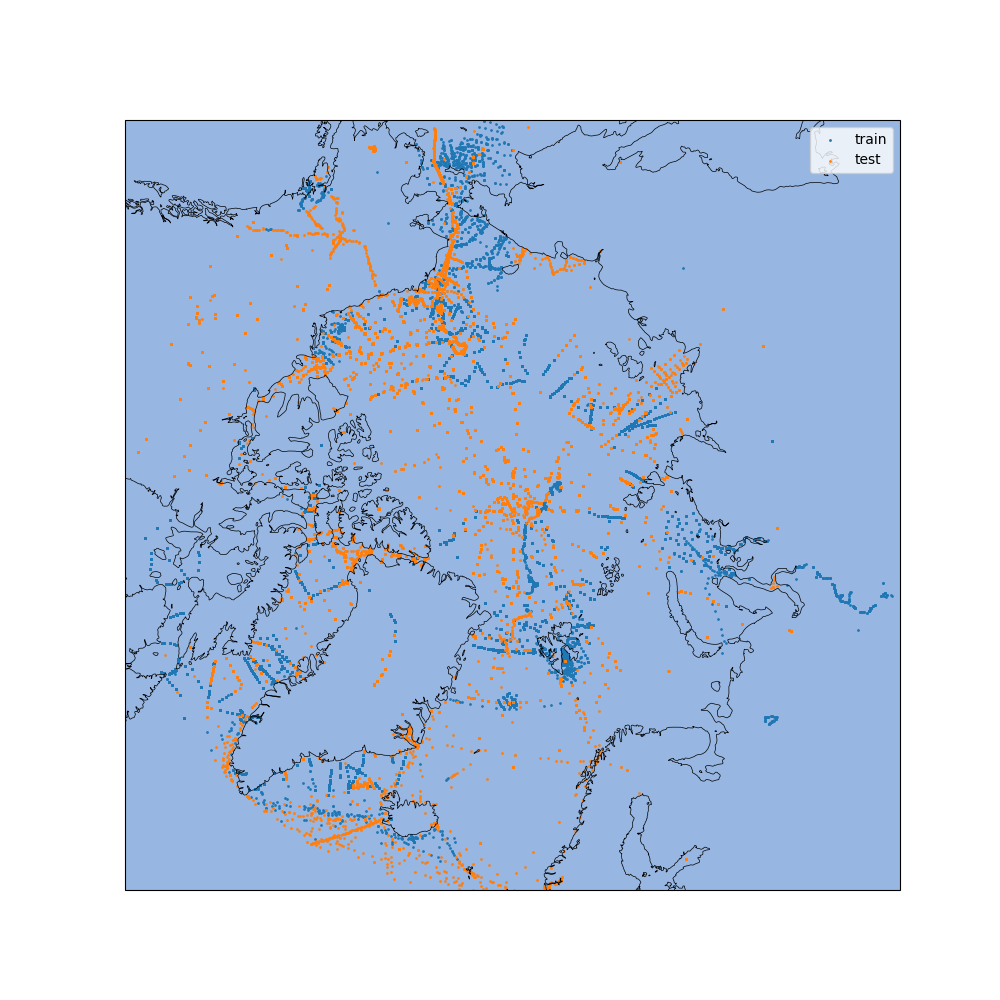
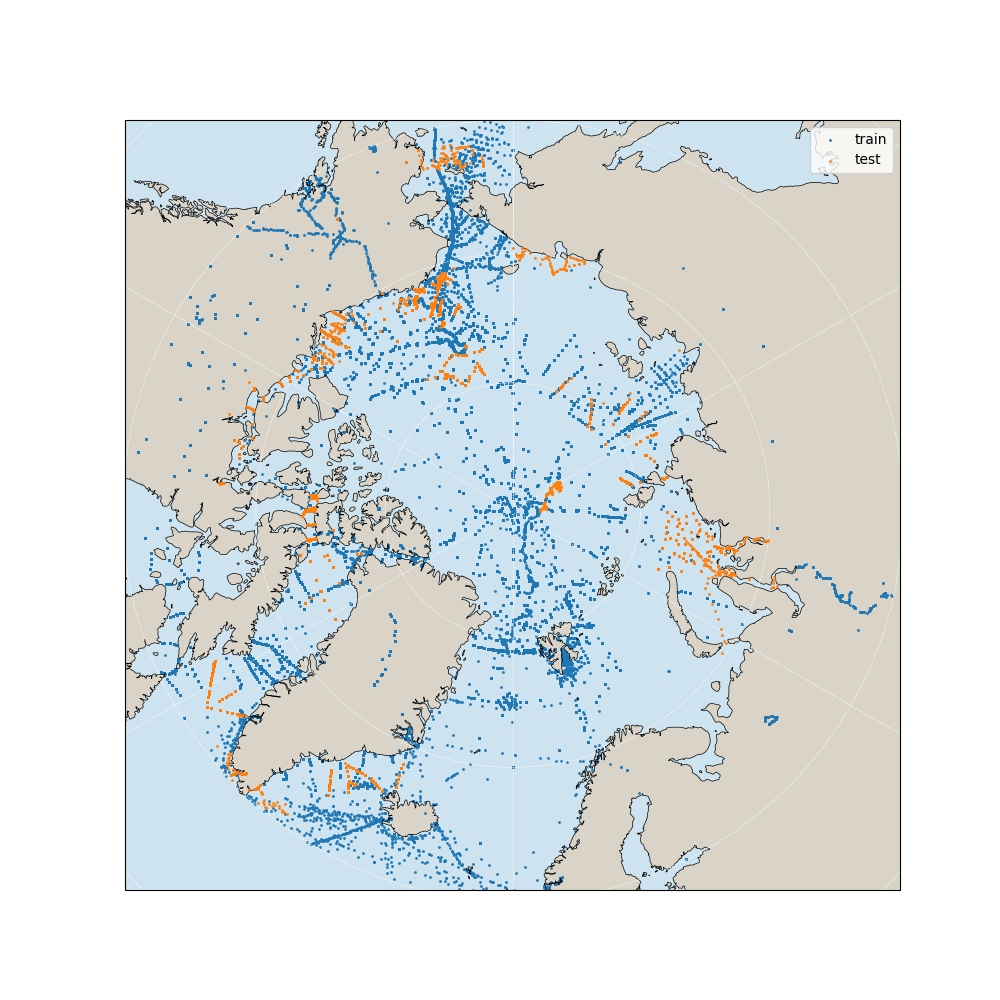
added possible Ba loss functions for quasi conservative PINN implementation

diff --git a/PINN2/Ba_loss_functions.py b/PINN2/Ba_loss_functions.py
@@ -1,0 +1,349 @@
+"""
+Quasi-conservative Barium PINN loss functions — Level 2 parameterisation.
+
+Physics: barite (BaSO4) saturation-state-driven remineralisation, coupled
+with precipitation tied to particle export, and soft constraint terms for
+mixed-layer suppression, column conservation, and the Ba-Si* correlation.
+
+Governing PDE:
+    dBa/dt + u·∇Ba = ∇·(K·∇Ba) + R_remin(Ba, SO4, T, P) - R_precip(Ba, POC)
+
+All inputs are assumed to be PyTorch tensors of shape (N,) or (N, 1),
+where N is the number of collocation points in the batch.
+"""
+
+import torch
+import torch.nn as nn
+
+
+# ---------------------------------------------------------------------------
+# K_sp parameterisation
+# ---------------------------------------------------------------------------
+
+def ksp_barite(T_C: torch.Tensor, P_dbar: torch.Tensor) -> torch.Tensor:
+    """
+    Solubility product of barite (BaSO4) as a function of temperature and
+    pressure, after Monnin et al. (1999).
+
+    Args:
+        T_C:     Temperature in degrees Celsius.
+        P_dbar:  Pressure in dbar (approx. equivalent to depth in metres).
+
+    Returns:
+        K_sp in (mol/kg)^2.
+    """
+    T_K = T_C + 273.15
+
+    # Temperature dependence (log10 Ksp fit, simplified Monnin form)
+    log10_Ksp0 = -9.87 + 0.0174 * (T_C - 25.0) - 3.5e-5 * (T_C - 25.0) ** 2
+
+    # Pressure correction via the partial molar volume of dissolution
+    # dln(Ksp)/dP = -delta_V / (RT)
+    delta_V  = -26.0e-6   # m^3 / mol  (partial molar volume change)
+    R_gas    = 8.314       # J / (mol K)
+    P_pascal = P_dbar * 1e4  # dbar -> Pa  (1 dbar ≈ 10^4 Pa)
+
+    ln_Ksp_pressure_correction = -(delta_V * P_pascal) / (R_gas * T_K)
+
+    # Convert log10 base to natural log, apply correction, convert back
+    ln_Ksp0  = log10_Ksp0 * torch.log(torch.tensor(10.0))
+    ln_Ksp   = ln_Ksp0 + ln_Ksp_pressure_correction
+    return torch.exp(ln_Ksp)
+
+
+# ---------------------------------------------------------------------------
+# Saturation index
+# ---------------------------------------------------------------------------
+
+def saturation_index(
+    Ba:    torch.Tensor,
+    SO4:   torch.Tensor,
+    T_C:   torch.Tensor,
+    P_dbar: torch.Tensor,
+) -> torch.Tensor:
+    """
+    Ion activity product divided by K_sp.
+
+        Omega = [Ba2+][SO4 2-] / K_sp(T, P)
+
+    Omega < 1  ->  undersaturated  ->  barite dissolves  ->  R_remin > 0
+    Omega > 1  ->  oversaturated   ->  barite precipitates -> R_precip > 0
+
+    Args:
+        Ba:     Dissolved [Ba2+] in nmol/kg (will be converted internally).
+        SO4:    Dissolved [SO4 2-] in mmol/kg.
+        T_C:    Temperature in degrees Celsius.
+        P_dbar: Pressure in dbar.
+
+    Returns:
+        Dimensionless saturation index Omega, shape (N,).
+    """
+    Ba_mol  = Ba  * 1e-9   # nmol/kg -> mol/kg
+    SO4_mol = SO4 * 1e-3   # mmol/kg -> mol/kg
+    Ksp     = ksp_barite(T_C, P_dbar)
+    return (Ba_mol * SO4_mol) / (Ksp + 1e-30)  # epsilon avoids divide-by-zero
+
+
+# ---------------------------------------------------------------------------
+# Source / sink terms
+# ---------------------------------------------------------------------------
+
+def R_remineralisation(
+    Ba:         torch.Tensor,
+    SO4:        torch.Tensor,
+    T_C:        torch.Tensor,
+    P_dbar:     torch.Tensor,
+    k_diss:     torch.Tensor,
+) -> torch.Tensor:
+    """
+    Barite dissolution rate driven by local undersaturation.
+
+        R_remin = k_diss * relu(1 - Omega)
+
+    The relu enforces zero dissolution in oversaturated water — the saturation
+    horizon emerges naturally from the data without a hard-coded depth cutoff.
+
+    Args:
+        Ba, SO4, T_C, P_dbar: State variables (see saturation_index).
+        k_diss:  Learned dissolution rate constant (scalar or broadcastable).
+                 Should be passed through softplus before this call to ensure
+                 it is non-negative.
+
+    Returns:
+        R_remin in nmol/kg/s, shape (N,).
+    """
+    omega = saturation_index(Ba, SO4, T_C, P_dbar)
+    undersaturation = torch.relu(1.0 - omega)
+    return k_diss * undersaturation
+
+
+def R_precipitation(
+    Ba:       torch.Tensor,
+    POC:      torch.Tensor,
+    k_precip: torch.Tensor,
+    n_poc:    float = 1.0,
+) -> torch.Tensor:
+    """
+    Barite precipitation within sinking organic aggregates.
+
+        R_precip = k_precip * POC^n_poc * Ba
+
+    The Ba term captures the concentration dependence of nucleation;
+    n_poc controls the non-linearity of the export flux coupling.
+
+    Args:
+        Ba:       Dissolved [Ba2+] in nmol/kg.
+        POC:      Particulate organic carbon flux proxy (e.g. mg C / m^2 / d,
+                  normalised to dimensionless [0, 1] range recommended).
+        k_precip: Learned precipitation rate constant (passed through softplus
+                  externally to ensure non-negativity).
+        n_poc:    POC flux exponent (default 1.0, can be learned).
+
+    Returns:
+        R_precip in nmol/kg/s, shape (N,).
+    """
+    return k_precip * (POC ** n_poc) * Ba
+
+
+# ---------------------------------------------------------------------------
+# Individual loss terms
+# ---------------------------------------------------------------------------
+
+def loss_pde_residual(
+    dBa_dt:    torch.Tensor,
+    advection: torch.Tensor,
+    diffusion: torch.Tensor,
+    remin:     torch.Tensor,
+    precip:    torch.Tensor,
+) -> torch.Tensor:
+    """
+    MSE of the PDE residual at interior collocation points.
+
+    Residual form:
+        dBa/dt + u·∇Ba - ∇·(K·∇Ba) - R_remin + R_precip = 0
+
+    All terms must be in consistent units (nmol/kg/s recommended).
+    The advection and diffusion terms should be computed externally via
+    automatic differentiation through your PINN forward pass.
+    """
+    residual = dBa_dt + advection - diffusion - remin + precip
+    return torch.mean(residual ** 2)
+
+
+def loss_data(
+    Ba_pred: torch.Tensor,
+    Ba_obs:  torch.Tensor,
+) -> torch.Tensor:
+    """
+    MSE against observed dissolved Ba concentrations.
+
+    Args:
+        Ba_pred: PINN output at observation locations (nmol/kg).
+        Ba_obs:  Measured Ba (nmol/kg).
+    """
+    return torch.mean((Ba_pred - Ba_obs) ** 2)
+
+
+def loss_mixed_layer(
+    remin_mld: torch.Tensor,
+) -> torch.Tensor:
+    """
+    Soft constraint: remineralisation must vanish in the surface mixed layer.
+
+    Pass only the R_remin values at collocation points shallower than the
+    local mixed layer depth (MLD). The saturation-state formulation already
+    suppresses this physically, but this penalty term adds an explicit
+    gradient signal during early training when Omega predictions are noisy.
+
+    Args:
+        remin_mld: R_remin evaluated at points with depth < MLD.
+    """
+    if remin_mld.numel() == 0:
+        return torch.tensor(0.0)
+    return torch.mean(remin_mld ** 2)
+
+
+def loss_column_conservation(
+    remin_col:  torch.Tensor,
+    precip_col: torch.Tensor,
+) -> torch.Tensor:
+    """
+    Soft column-integrated Ba conservation constraint.
+
+    In steady state, depth-integrated remineralisation ≈ depth-integrated
+    precipitation within a water column. This is approximate (lateral
+    transport can violate it locally) so weight this term lightly.
+
+    Args:
+        remin_col:  R_remin values over a full water column (nmol/kg/s).
+        precip_col: R_precip values over the same column (nmol/kg/s).
+    """
+    return (torch.mean(remin_col) - torch.mean(precip_col)) ** 2
+
+
+def loss_ba_si_correlation(
+    Ba_pred: torch.Tensor,
+    Si_obs:  torch.Tensor,
+    a:       torch.Tensor,
+    b:       torch.Tensor,
+) -> torch.Tensor:
+    """
+    Ba–Si* linear correlation constraint.
+
+    Dissolved Ba and silicic acid co-vary linearly across most water masses
+    (Sillen & Dymond, 1992; Jeandel et al., 1996):
+
+        [Ba] ≈ a * [Si] + b
+
+    This is a cheap, high-information constraint because Si is measured far
+    more widely than Ba. a and b can be fixed from literature values or
+    learned as additional PINN parameters.
+
+    Typical open-ocean values (nmol/kg vs µmol/kg):
+        a ≈ 0.27  (nmol Ba per µmol Si)
+        b ≈ 45    (nmol/kg preformed Ba)
+
+    Args:
+        Ba_pred: PINN Ba predictions at collocated Si observation sites.
+        Si_obs:  Measured silicic acid (µmol/kg).
+        a, b:    Slope and intercept (fixed or learned).
+    """
+    Ba_from_Si = a * Si_obs + b
+    return torch.mean((Ba_pred - Ba_from_Si) ** 2)
+
+
+# ---------------------------------------------------------------------------
+# Combined loss
+# ---------------------------------------------------------------------------
+
+def barium_pinn_loss(
+    # ----- PDE terms (from autodiff through the PINN forward pass) -----
+    dBa_dt:    torch.Tensor,   # time derivative of Ba prediction
+    advection: torch.Tensor,   # u·∇Ba
+    diffusion: torch.Tensor,   # ∇·(K·∇Ba)
+
+    # ----- State variables at collocation points -----
+    Ba_pred:   torch.Tensor,   # PINN Ba output (nmol/kg)
+    SO4:       torch.Tensor,   # sulphate (mmol/kg)
+    T_C:       torch.Tensor,   # temperature (°C)
+    P_dbar:    torch.Tensor,   # pressure (dbar)
+    POC:       torch.Tensor,   # POC flux proxy (dimensionless, normalised)
+
+    # ----- Learned rate constants (raw, pre-softplus) -----
+    k_diss_raw:   torch.Tensor,   # dissolution rate constant
+    k_precip_raw: torch.Tensor,   # precipitation rate constant
+
+    # ----- Data constraint -----
+    Ba_obs:    torch.Tensor,   # observed Ba at data points (nmol/kg)
+    Ba_pred_at_obs: torch.Tensor,  # PINN output at observation locations
+
+    # ----- Mixed-layer mask -----
+    mld_mask:  torch.Tensor,   # boolean, True where depth < MLD
+
+    # ----- Ba-Si* constraint -----
+    Ba_pred_at_si: torch.Tensor,  # PINN output at Si observation sites
+    Si_obs:    torch.Tensor,      # observed Si (µmol/kg)
+    a_basi:    torch.Tensor,      # Ba-Si slope  (fixed or learned)
+    b_basi:    torch.Tensor,      # Ba-Si intercept (fixed or learned)
+
+    # ----- Loss weights -----
+    lambda_data: float = 1.0,
+    lambda_mld:  float = 0.1,
+    lambda_col:  float = 0.01,
+    lambda_basi: float = 0.5,
+) -> dict:
+    """
+    Compute all PINN loss terms for the quasi-conservative Barium tracer.
+
+    Returns a dict with individual loss components and the weighted total,
+    so you can log each term separately during training and adjust weights
+    without rewriting the loss call.
+
+    Usage example
+    -------------
+    losses = barium_pinn_loss(
+        dBa_dt=dBa_dt, advection=adv, diffusion=diff,
+        Ba_pred=Ba, SO4=SO4, T_C=T, P_dbar=P, POC=poc,
+        k_diss_raw=model.k_diss, k_precip_raw=model.k_precip,
+        Ba_obs=ba_obs, Ba_pred_at_obs=Ba_at_obs,
+        mld_mask=mld_mask,
+        Ba_pred_at_si=Ba_at_si, Si_obs=si_obs,
+        a_basi=model.a_basi, b_basi=model.b_basi,
+    )
+    losses["total"].backward()
+    """
+    # Enforce non-negativity of rate constants via softplus
+    k_diss   = nn.functional.softplus(k_diss_raw)
+    k_precip = nn.functional.softplus(k_precip_raw)
+
+    # Source / sink terms at all collocation points
+    remin  = R_remineralisation(Ba_pred, SO4, T_C, P_dbar, k_diss)
+    precip = R_precipitation(Ba_pred, POC, k_precip)
+
+    # --- Individual loss components ---
+    L_phys = loss_pde_residual(dBa_dt, advection, diffusion, remin, precip)
+    L_data = loss_data(Ba_pred_at_obs, Ba_obs)
+    L_mld  = loss_mixed_layer(remin[mld_mask])
+    L_col  = loss_column_conservation(remin, precip)
+    L_basi = loss_ba_si_correlation(Ba_pred_at_si, Si_obs, a_basi, b_basi)
+
+    L_total = (
+        L_phys
+        + lambda_data * L_data
+        + lambda_mld  * L_mld
+        + lambda_col  * L_col
+        + lambda_basi * L_basi
+    )
+
+    return {
+        "total":       L_total,
+        "pde":         L_phys,
+        "data":        L_data,
+        "mld":         L_mld,
+        "column":      L_col,
+        "ba_si":       L_basi,
+        # Diagnostics — detached so they don't affect the graph
+        "k_diss":      k_diss.detach(),
+        "k_precip":    k_precip.detach(),
+        "omega_mean":  saturation_index(Ba_pred, SO4, T_C, P_dbar).mean().detach(),
+    }

diff --git a/PINN2/spatial_temporal_holdout.py b/PINN2/spatial_temporal_holdout.py
@@ -60,7 +60,7 @@ X_scaled = scaler.fit_transform(X)
 
 
 clusterer = hdbscan.HDBSCAN(
-    min_cluster_size=100
+    min_cluster_size=75
 )
 
 df["cluster"] = clusterer.fit_predict(X_scaled)
@@ -132,9 +132,12 @@ ax = plt.axes(projection=ccrs.NorthPolarStereo())
 ax.set_extent([-180, 180, 60, 90], crs=ccrs.PlateCarree())
 
 # Add base features
-ax.add_feature(cfeature.LAND, facecolor="lightgray")
-ax.add_feature(cfeature.OCEAN)
-ax.coastlines(linewidth=0.5)
+# Draw ocean first, then land on top — this is the fix for the
+# all-blue map: zorder must place scatter ABOVE both features.
+ax.add_feature(cfeature.OCEAN, facecolor="#cde4f0", zorder=0)
+ax.add_feature(cfeature.LAND,  facecolor="#d9d4c7", zorder=1)
+ax.add_feature(cfeature.COASTLINE, linewidth=0.5, zorder=2)
+ax.gridlines(color="white", linewidth=0.4, linestyle="--", zorder=2)
 
 # Scatter plot
 sc = ax.scatter(
@@ -151,7 +154,8 @@ sc = ax.scatter(
     test_df[lat_col],
     s=1,
     label="test",
-    transform=ccrs.PlateCarree()
+    transform=ccrs.PlateCarree(),
+    zorder=3,
 )
 
 plt.legend()

diff --git a/PINN2/plot_obs.py b/PINN2/plot_obs.py
@@ -93,6 +93,8 @@ sc1 = ax1.scatter(
     df[lat_name].values,
     c=barium,
     s=5,
+    vmin=40,
+    vmax=60,
     cmap="viridis",
     transform=ccrs.PlateCarree(),
     zorder=3,           # ← must be higher than land/ocean zorders
